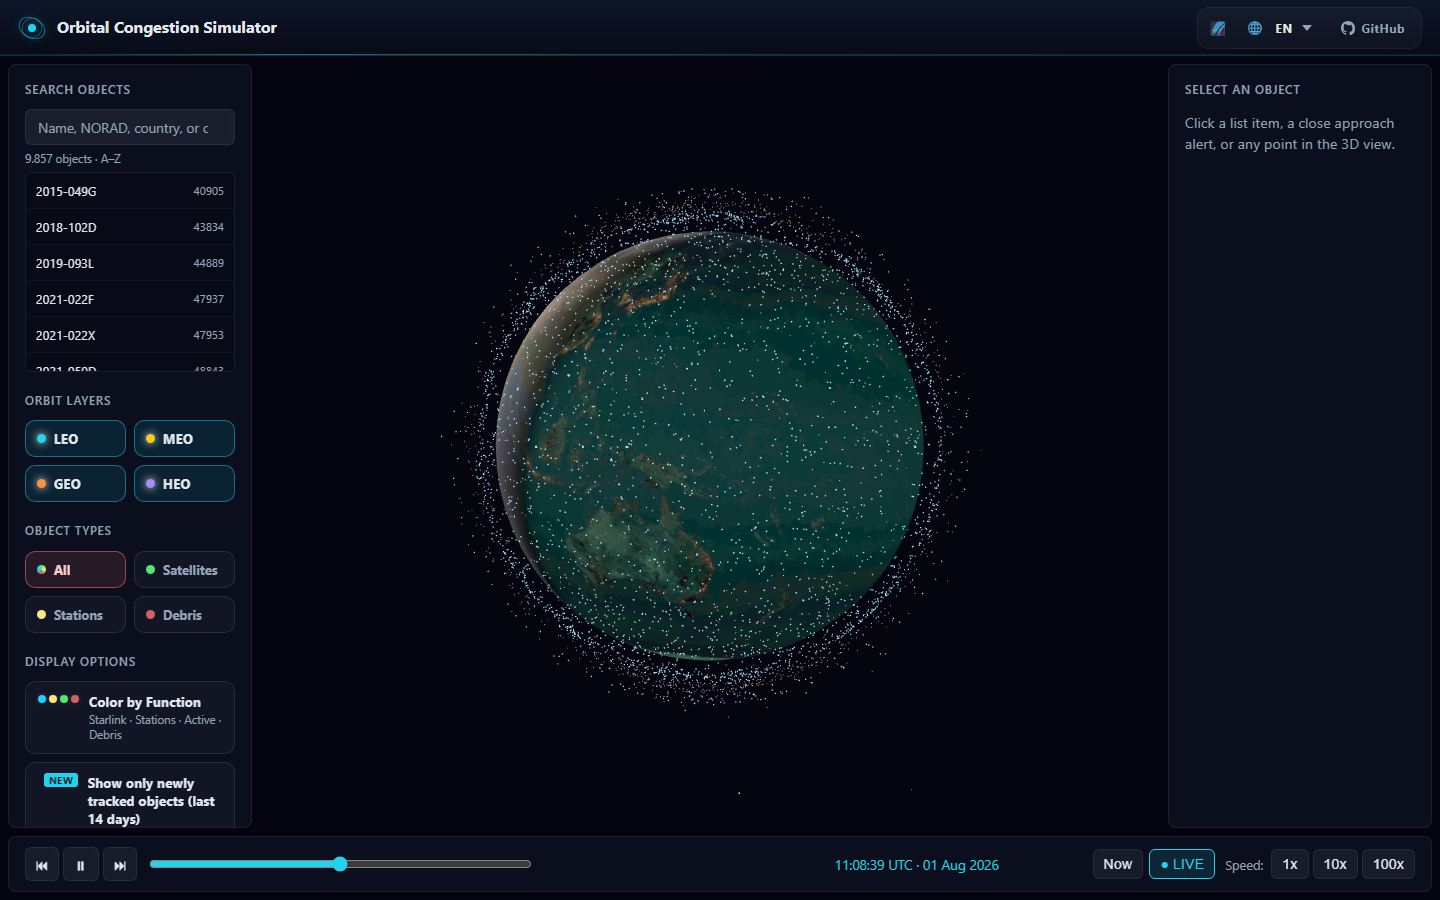
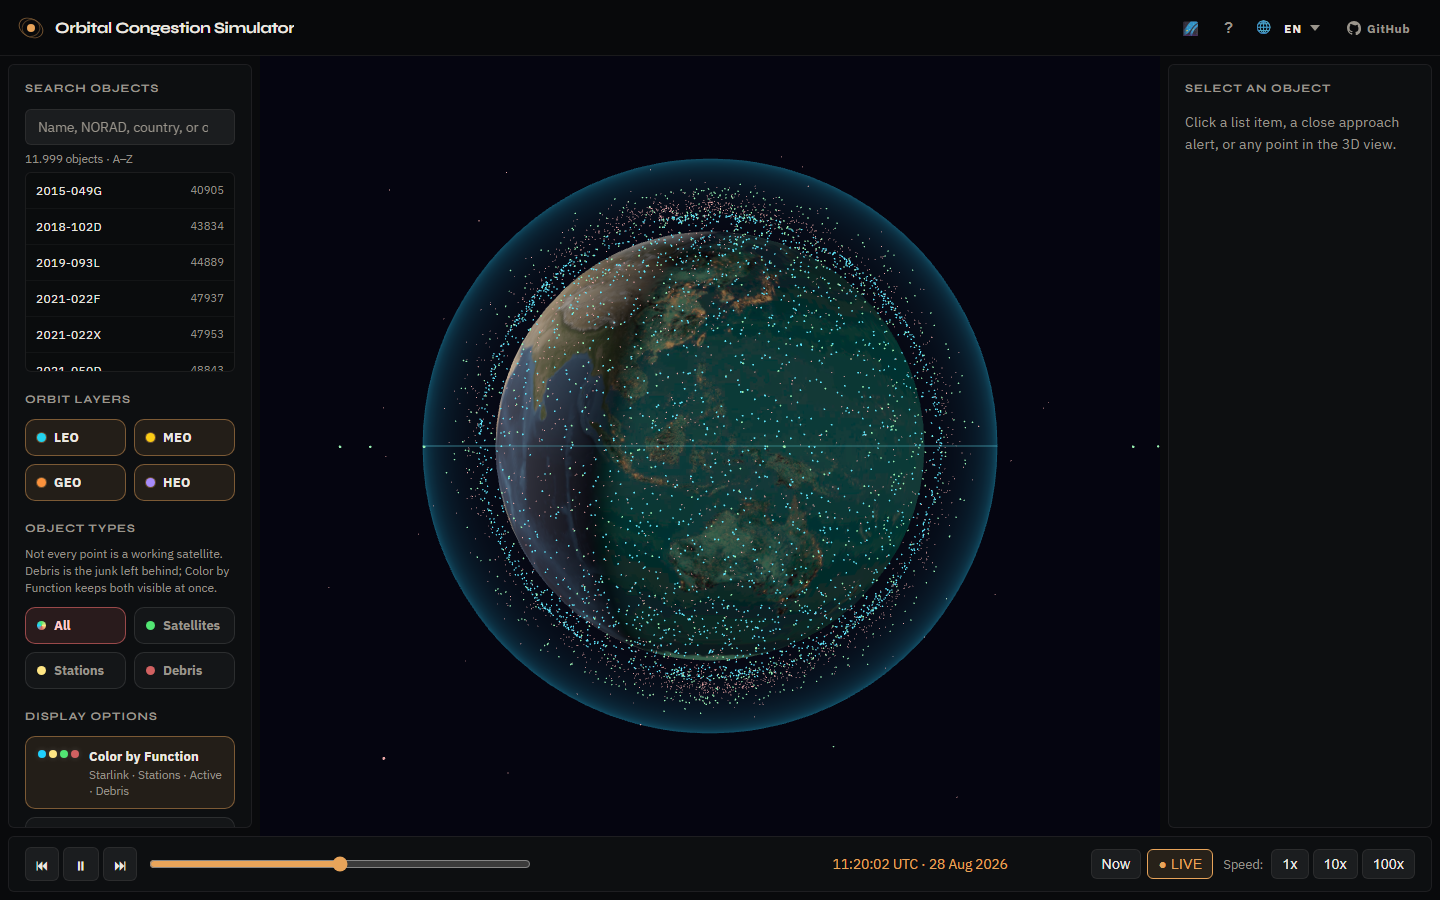
Refresh README docs and screenshot for the current UI.
Regenerate the hero image after layout and copy changes, expand README coverage (testing, limits, features), and wait for catalog load before capture.

diff --git a/README.md b/README.md
@@ -4,27 +4,29 @@
 
 **Live demo:** [https://orbital-congestion-simulator.vercel.app](https://orbital-congestion-simulator.vercel.app)
 
-![Orbital Congestion Simulator](docs/screenshot-en.png)
+![Orbital Congestion Simulator — English UI at 1440×900](docs/screenshot-en.png)
 
 ## What it does
 
 Orbital Congestion Simulator renders thousands of satellites and debris fragments orbiting Earth in real time. It uses Two-Line Element (TLE) data from CelesTrak and propagates each object with the SGP4 algorithm via [satellite.js](https://github.com/shashwatak/satellite-js).
 
-Explore orbit layers (LEO, MEO, GEO, HEO), filter by congestion type, click any object to inspect its orbital parameters, and scrub through time to see how the orbital environment evolves.
+Explore orbit layers (LEO, MEO, GEO, HEO), filter by congestion type, click any object to inspect its orbital parameters, scrub through time, replay historical collisions, and inspect close-approach pairs in a dedicated verification view.
 
 ## Features
 
-- **Live 3D globe** with instanced orbital points and day/night shading
-- **Orbit layers & filters** — LEO / MEO / GEO / HEO, satellites / stations / debris, search
-- **Object details** — altitude, velocity, country/owner, orbit trail, ground track, footprint
-- **Close-approach alerts** — next-24h scanning with verification UI
+- **Live 3D globe** with instanced orbital points, day/night Earth shading, and a LEO shell reference ring
+- **Orbit layers & filters** — LEO / MEO / GEO / HEO; satellites / stations / debris; search; altitude & inclination ranges
+- **Color by Function** — Starlink, stations, active payloads, and debris at a glance
+- **New to this catalog** — filter objects first seen in this app’s TLE list within the last 14 days (`firstSeenAt`)
+- **Object details** — altitude, velocity, country/owner, curated photos, orbit trail, ground track, footprint
+- **Close-approach alerts** — next-24h scanning with sortable cards and a VERIFY playback mode (T−60s → CPA → T+15s)
 - **Historical event replays** — seven landmark collisions, ASAT tests, and breakups
-- **Kessler “Future Projection”** — interactive what-if debris growth panel
-- **Satellite Spotter** — mobile sky guide using device sensors
+- **Kessler “Future Projection”** — header 🌌 panel with live scenario sliders, charts, and narrative (no separate run button)
+- **Satellite Spotter** — mobile sky guide using device sensors and magnetic declination correction
 - **Interactive how-to tour** — language gate + spotlight walkthrough (header `?`)
 - **i18n** — English, Turkish, German, Russian, Chinese
 - **Deep links** — `?object=<NORAD>` / `?event=<id>`
-- **Admin analytics overlay** (optional Firebase RTDB) — local PIN, visitor metrics
+- **Admin analytics overlay** (optional Firebase RTDB) — local PIN, visitor metrics (`Ctrl+Shift+A`)
 - **Automated TLE refresh** — GitHub Actions twice weekly (TLE + SATCAT country join)
 
 ## Why it matters
@@ -37,21 +39,37 @@ Earth orbit is increasingly crowded. About **40,000** objects larger than 10 cm 
 |-------|------------|
 | Build | Vite 6 + TypeScript (strict) |
 | 3D | Three.js |
-| Orbital mechanics | satellite.js (SGP4) |
+| Orbital mechanics | satellite.js (SGP4) + Web Worker batch propagation |
+| Testing | Vitest (unit) + Playwright (e2e) |
 | Data | CelesTrak TLE + SATCAT (static `tle.json`) |
 | Deploy | [Vercel](https://orbital-congestion-simulator.vercel.app) |
 
 ## Getting started
 
+**Requirements:** Node.js 20+, a WebGL-capable browser.
+
 ```bash
 git clone https://github.com/muhammet842/orbital-congestion-simulator.git
 cd orbital-congestion-simulator
 npm install
-npm run fetch-tle
 npm run dev
 ```
 
-Open `http://localhost:5173` in your browser.
+Open `http://localhost:5173`. The repo already ships with `public/data/tle.json`; run `npm run fetch-tle` only when you want a fresh CelesTrak pull.
+
+Optional analytics: copy `.env.example` → `.env` and set `VITE_FIREBASE_RTDB_URL` (see [firebase/README.md](firebase/README.md)).
+
+## Development & testing
+
+```bash
+npm run build        # tsc + production bundle
+npm test             # Vitest unit tests
+npm run test:e2e     # Playwright (Chromium + mobile-chrome)
+npm run check:i18n   # translation key parity (en/tr/de/ru/zh)
+npm run screenshot   # refresh docs/screenshot-en.png after UI changes
+```
+
+CI (GitHub Actions): build + unit tests on every push/PR; Playwright e2e on `main` pushes and PRs into `main`.
 
 ## How to use
 
@@ -78,6 +96,13 @@ npm run fetch-tle
 
 Objects can carry a `firstSeenAt` stamp when they first appear in an automated fetch relative to the previous catalog snapshot. The UI filter **“New to this catalog”** uses that stamp — it means **first seen in this app’s TLE list within the last 14 days**, not the physical launch or formation date (and not SATCAT `LAUNCH_DATE`). Stamps accumulate across refreshes; a cold/empty baseline does not mark the whole catalog as new. See [docs/NEW_OBJECTS.md](docs/NEW_OBJECTS.md).
 
+## Limitations (read before demoing)
+
+- **Not live tracking** — positions are propagated from static TLE snapshots with SGP4; there is no real-time position API.
+- **Educational scale** — in VERIFY close-approach mode, 3D models shrink to stay smaller than the computed miss distance so pairs do not visually overlap at sub-kilometre CPAs.
+- **Projection panel** — Kessler “Future Projection” is a simplified what-if model, not an official debris forecast (see the in-panel disclaimer).
+- **TLE age** — Live Stats shows when `tle.json` was last fetched; a warning appears after ~3 days without refresh.
+
 ## Orbital mechanics
 
 Each object is propagated with **SGP4** (Simplified General Perturbations 4), the standard model used by NORAD for TLE-based prediction. Positions are computed in Earth-Centered Inertial (ECI) coordinates and scaled for Three.js display (1 unit = Earth radius).
@@ -97,7 +122,7 @@ Orbit layers are classified by altitude and eccentricity:
 
 ## Earth texture
 
-Earth texture sourced from [NASA Visible Earth](https://visibleearth.nasa.gov/) (Blue Marble). Stored locally at `public/textures/earth.jpg`.
+Day and night maps sourced from [NASA Visible Earth](https://visibleearth.nasa.gov/) (Blue Marble). Stored locally at `public/textures/earth.jpg` and `public/textures/earth-night.jpg` and blended in a custom shader for the terminator.
 
 ## Ops & admin
 
@@ -113,4 +138,4 @@ Built for the [Hack Club Stardance](https://stardance.hackclub.com/) competition
 
 ## License
 
-MIT
+[MIT](LICENSE)
